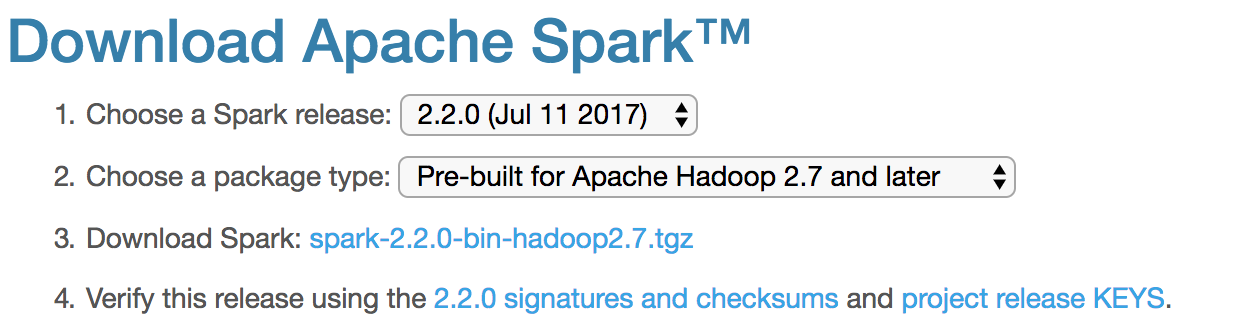
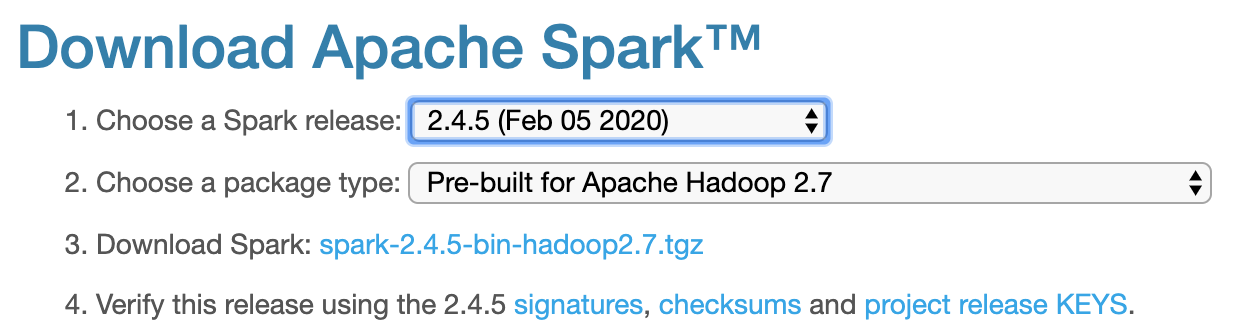
Update readme

diff --git a/README.md b/README.md
@@ -12,32 +12,37 @@ When you have completed this Code Pattern, you will understand how to:
 * Ingest and index user event data into Elasticsearch using the Elasticsearch Spark connector
 * Load event data into Spark DataFrames and use Spark's machine learning library (MLlib) to train a collaborative filtering recommender model
 * Export the trained model into Elasticsearch
-* Using a custom Elasticsearch plugin, compute _personalized user_ and _similar item_ recommendations and combine recommendations with search and content filtering
+* Using a script score query in Elasticsearch, compute _similar item_ and _personalized user_ recommendations and combine recommendations with search and content filtering
 
 ![Architecture diagram](doc/source/images/architecture.png)
 
 ## Flow
+
 1. Load the movie dataset into Spark.
 2. Use Spark DataFrame operations to clean up the dataset and load it into Elasticsearch.
-3. Using Spark MLlib, train a collaborative filtering recommendation model.
+3. Using Spark MLlib, train a collaborative filtering recommendation model from the ratings data in Elasticsearch.
 4. Save the resulting model into Elasticsearch.
-5. Using Elasticsearch queries and a custom vector scoring plugin, generate some example recommendations. [The Movie Database](https://www.themoviedb.org/) API is used to display movie poster images for the recommended movies.
+5. Using Elasticsearch queries, generate some example recommendations. [The Movie Database](https://www.themoviedb.org/) API is used to display movie poster images for the recommended movies.
 
 ## Included components
+
 * [Apache Spark](https://spark.apache.org/): An open-source, fast and general-purpose cluster computing system
 * [Elasticsearch](https://www.elastic.co/): Open-source search and analytics engine
 * [Jupyter Notebooks](https://jupyter.org/): An open-source web application that allows you to create and share documents that contain live code, equations, visualizations and explanatory text.
 
 ## Featured technologies
+
 * [Data Science](https://medium.com/ibm-data-science-experience/): Systems and scientific methods to analyze
 structured and unstructured data in order to extract knowledge and insights.
 * [Artificial Intelligence](https://medium.com/ibm-data-science-experience): Artificial intelligence can be applied to disparate solution spaces to deliver disruptive technologies.
 * [Python](https://www.python.org/): Python is a programming language that lets you work more quickly and integrate your systems more effectively.
 
 # Watch the Video
+
 [![](https://img.youtube.com/vi/MJUO0CLNbB0/0.jpg)](https://www.youtube.com/watch?v=MJUO0CLNbB0)
 
 # Steps
+
 Follow these steps to create the required services and run the notebook locally.
 
 1. [Clone the repo](#1-clone-the-repo)
@@ -58,25 +63,21 @@ $ git clone https://github.com/IBM/elasticsearch-spark-recommender
 
 ### 2. Set up Elasticsearch
 
-This Code Pattern currently depends on Elasticsearch 5.3.0. Go to the [downloads page](https://www.elastic.co/downloads/past-releases/elasticsearch-5-3-0) and download the appropriate package for your system.
+This Code Pattern currently depends on Elasticsearch 7.6.x. Go to the [downloads page](https://www.elastic.co/downloads/elasticsearch) and download the appropriate package for your system. If you do not see a valid release version there, go to the [previous release page](https://www.elastic.co/downloads/past-releases#elasticsearch).
 
-For example on Linux / Mac you can download the [TAR archive](https://artifacts.elastic.co/downloads/elasticsearch/elasticsearch-5.3.0.tar.gz) and unzip it using the commands:
+> In this Code Pattern readme we will base instructions on Elasticsearch `7.6.2`.
+
+For example, on Mac you can download the [TAR archive](https://artifacts.elastic.co/downloads/elasticsearch/elasticsearch-7.6.2-darwin-x86_64.tar.gz) and unzip it using the commands:
 
 ```
-$ wget https://artifacts.elastic.co/downloads/elasticsearch/elasticsearch-5.3.0.tar.gz
-$ tar xfz elasticsearch-5.3.0.tar.gz
+$ wget https://artifacts.elastic.co/downloads/elasticsearch/elasticsearch-7.6.2-darwin-x86_64.tar.gz
+$ tar xfz elasticsearch-7.6.2-darwin-x86_64.tar.gz
 ```
 
 Change directory to the newly unzipped folder using:
 
 ```
-$ cd elasticsearch-5.3.0
-```
-
-Next, you will need to install the [Elasticsearch vector scoring plugin](https://github.com/MLnick/elasticsearch-vector-scoring). You can do this by running the following command (Elasticsearch will download the plugin file for you):
-
-```
-$ ./bin/elasticsearch-plugin install https://github.com/MLnick/elasticsearch-vector-scoring/releases/download/v5.3.0/elasticsearch-vector-scoring-5.3.0.zip
+$ cd elasticsearch-7.6.2
 ```
 
 Next, start Elasticsearch (do this in a separate terminal window in order to keep it up and running):
@@ -85,16 +86,7 @@ Next, start Elasticsearch (do this in a separate terminal window in order to kee
 $ ./bin/elasticsearch
 ```
 
-You should see some start up logs displayed. Check that the `elasticsearch-vector-scoring-plugin` is successfully loaded:
-
-```
-$ ./bin/elasticsearch
-[2017-09-08T15:58:18,781][INFO ][o.e.n.Node               ] [] initializing ...
-...
-[2017-09-08T15:58:19,406][INFO ][o.e.p.PluginsService     ] [2Zs8kW3] loaded plugin [elasticsearch-vector-scoring]
-[2017-09-08T15:58:20,676][INFO ][o.e.n.Node               ] initialized
-...
-```
+You should see some start up logs displayed.
 
 Finally, you will need to install the Elasticsearch Python client. You can do this by running the following command (you should do this in a separate terminal window to the one running Elasticsearch):
 
@@ -106,28 +98,32 @@ $ pip install elasticsearch
 
 The [Elasticsearch Hadoop project](https://www.elastic.co/products/hadoop) provides connectors between Elasticsearch and various Hadoop-compatible systems, including Spark. The project provides a ZIP file to download that contains all these connectors. You will need to run your PySpark notebook with the Spark-specific connector JAR file on the classpath. Follow these steps to set up the connector:
 
-1. [Download](https://download.elastic.co/hadoop/elasticsearch-hadoop-5.3.0.zip) the `elasticsearch-hadoop-5.3.0.zip` file, which contains all the connectors. You can do this by running:
+1. [Download](https://www.elastic.co/downloads/hadoop) the `elasticsearch-hadoop-7.6.2.zip` file, which contains all the connectors. You can do this by running:
 ```
-$ wget https://download.elastic.co/hadoop/elasticsearch-hadoop-5.3.0.zip
+$ wget https://artifacts.elastic.co/downloads/elasticsearch-hadoop/elasticsearch-hadoop-7.6.2.zip
 ```
 2. Unzip the file by running:
 ```
-$ unzip elasticsearch-hadoop-5.3.0.zip
+$ unzip elasticsearch-hadoop-7.6.2.zip
 ```
-3. The JAR for the Spark connector is called `elasticsearch-spark-20_2.11-5.3.0.jar` and it will be located in the `dist` subfolder of the directory in which you unzipped the file above.
+3. The JAR for the Spark connector is called `elasticsearch-spark-20_2.11-7.6.2.jar` and it will be located in the `dist` subfolder of the directory in which you unzipped the file above.
 
 ### 4. Download Apache Spark
 
-This Code Pattern should work with any Spark 2.x version, however it is recommended that you download the latest version of Spark (currently 2.2.0) from the [downloads page](https://spark.apache.org/downloads.html). Once you have downloaded the file, unzip it by running:
+> This Code Pattern should work with any Spark 2.x version, however this readme uses version `2.4.5`.
+
+![Download Apache Spark](doc/source/images/download-apache-spark.png)
+
+Download the Spark from the [downloads page](https://spark.apache.org/downloads.html). Once you have downloaded the file, unzip it by running:
+
 ```
-$ tar xfz spark-2.2.0-bin-hadoop2.7.tgz
+$ tar xfz spark-2.4.5-bin-hadoop2.7.tgz
 ```
 
 > *Note if you download a different version, adjust the relevant command used above and elsewhere in this Code Pattern accordingly*
 
-![Download Apache Spark](doc/source/images/download-apache-spark.png)
-
 You will also need to install [Numpy](https://www.numpy.org) in order to use Spark's machine learning library, [MLlib](https://spark.apache.org/mllib). If you don't have Numpy installed, run:
+
 ```
 $ pip install numpy
 ```
@@ -146,19 +142,19 @@ $ unzip ml-latest-small.zip
 
 ### 6. Launch the notebook
 
-> The notebook should work with Python 2.7 or 3.x (and has been tested on 2.7.11 and 3.6.1)
+> The notebook should work with Python 2.7+ or 3.x (but has only been tested on 3.6)
 
 To run the notebook you will need to launch a PySpark session within a Jupyter notebook. If you don't have Jupyter installed, you can install it by running the command:
 ```
 $ pip install jupyter
 ```
 
-Remember to include the Elasticsearch Spark connector JAR from [step 3](#3-download-the-elasticsearch-spark-connector) on the classpath when launching your notebook.
+Remember to include the Elasticsearch Spark connector JAR from [step 3](#3-download-the-elasticsearch-spark-connector) on the Spark classpath when launching your notebook.
 
 Run the following command to launch your PySpark notebook server locally. **For this command to work correctly, you will need to launch the notebook from the base directory of the Code Pattern repository that you cloned in [step 1](#1-clone-the-repo)**. If you are not in that directory, first `cd` into it.
 
 ```
-PYSPARK_DRIVER_PYTHON="jupyter" PYSPARK_DRIVER_PYTHON_OPTS="notebook" ../spark-2.2.0-bin-hadoop2.7/bin/pyspark --driver-memory 4g --driver-class-path ../../elasticsearch-hadoop-5.3.0/dist/elasticsearch-spark-20_2.11-5.3.0.jar
+PYSPARK_DRIVER_PYTHON="jupyter" PYSPARK_DRIVER_PYTHON_OPTS="notebook" ../spark-2.4.5-bin-hadoop2.7/bin/pyspark --driver-memory 4g --driver-class-path ../../elasticsearch-hadoop-7.6.2/dist/elasticsearch-spark-20_2.11-7.6.2.jar
 ```
 
 This should open a browser window with the Code Pattern folder contents displayed. Click on the `notebooks` subfolder and then click on the `elasticsearch-spark-recommender.ipynb` file to launch the notebook.
@@ -200,20 +196,20 @@ There are several ways to execute the code cells in your notebook:
 
 # Sample output
 
-The example output in the `data/examples` folder shows the output of the notebook after running it in full. View it it [here]().
+The example output in the `data/examples` folder shows the output of the notebook after running it in full. View it [here](https://github.com/IBM/elasticsearch-spark-recommender/tree/master/data/examples/elasticsearch-spark-recommender-completed.ipynb).
 
-> *Note:* To see the code and markdown cells without output, you can view [the raw notebook in the Github viewer](notebooks/elasticsearch-spark-recommender.ipynb).
+> *Note:* To see the code and markdown cells without output, you can view [the raw notebook](notebooks/elasticsearch-spark-recommender.ipynb).
 
 # Troubleshooting
 
 * Error: `java.lang.ClassNotFoundException: Failed to find data source: es.`
 
-If you see this error when trying to write data from Spark to Elasticsearch in the notebook, it means that the Elasticsearch Spark connector (`elasticsearch-spark-20_2.11-5.3.0.jar`) was not found on the class path by Spark when launching the notebook.
+If you see this error when trying to write data from Spark to Elasticsearch in the notebook, it means that the Elasticsearch Spark connector (`elasticsearch-spark-20_2.11-7.6.1.jar`) was not found on the class path by Spark when launching the notebook.
 
   > Solution: First try the launch command from [step 6](#6-launch-the-notebook), **ensuring you run it from the base directory of the Code Pattern repo**.
 
   > If that does not work, try to use the fully-qualified path to the JAR file when launching the notebook, e.g.:
-  > `PYSPARK_DRIVER_PYTHON="jupyter" PYSPARK_DRIVER_PYTHON_OPTS="notebook" ../spark-2.2.0-bin-hadoop2.7/bin/pyspark --driver-memory 4g --driver-class-path /FULL_PATH/elasticsearch-hadoop-5.3.0/dist/elasticsearch-spark-20_2.11-5.3.0.jar`
+  > `PYSPARK_DRIVER_PYTHON="jupyter" PYSPARK_DRIVER_PYTHON_OPTS="notebook" ../spark-2.2.0-bin-hadoop2.7/bin/pyspark --driver-memory 4g --driver-class-path /FULL_PATH/elasticsearch-hadoop-7.6.1/dist/elasticsearch-spark-20_2.11-7.6.1.jar`
   > where `FULL_PATH` is the fully-qualified (not relative) path to the directory _from which you unzippd the `elasticsearch-hadoop` ZIP file_.
 
 * Error: `org.elasticsearch.hadoop.EsHadoopIllegalStateException: SaveMode is set to ErrorIfExists and index demo/ratings exists and contains data. Consider changing the SaveMode`
@@ -251,10 +247,13 @@ If you see this error in your notebook while testing your TMDb API access, or ge
 
 # Links
 
+**Note** slide and video links below refer to an older version of this Code Pattern, that utilized the [Elasticsearch Vector Scoring Plugin](https://github.com/MLnick/elasticsearch-vector-scoring). Since Elasticsearch added [native support for dense vector scoring](https://www.elastic.co/blog/text-similarity-search-with-vectors-in-elasticsearch), the plugin is no longer required. However, the details about the way in which the models and scoring functions work are still valid.
+
 * [Demo on Youtube](https://www.youtube.com/watch?v=MJUO0CLNbB0): Watch the video.
 * [Meetup video presentation](https://youtu.be/sa_Y488vj0M): Watch the meetup presentation covering some of the background and technical details behind this pattern.
 * [Meetup deck](https://www.slideshare.net/sparktc/spark-ml-meedup-pentreath-puget): View the slides presented.
 * [ApacheCon Big Data Europe 2016](https://events.static.linuxfound.org/sites/events/files/slides/ApacheBigDataEU16-NPentreath.pdf): Check out an extended version of the meetup presentation.
+* [Berlin Buzzwords 2018](https://2019.berlinbuzzwords.de/file/bbuzz-2018-nick-pentreath-search-and-recommendations-3-sides-same-coin): An overview of 3 general approaches to recommendations using Elasticsearch, including factor vector scoring.
 * [Data and Analytics](https://www.ibm.com/cloud/garage/architectures/dataAnalyticsArchitecture): Learn how this Pattern fits into the Data and Analytics Reference Architecture.
 
 # Learn more
